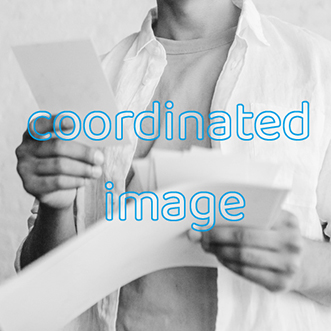
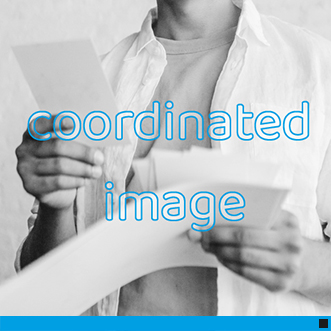
fix service images and footer contact translation

Changed region(s): [[0.0, 0.9366, 1.0, 1.0]]

diff --git a/src/components/Footer.jsx b/src/components/Footer.jsx
@@ -58,7 +58,7 @@ const Footer = () => {
           </span>
         </div>
         <div>
-          contatti:
+          {t('footer.contact')}:
           <a
             href="mailto:creativexpansionart@gmail.com"
             style={{ marginLeft: 5 }}
@@ -68,10 +68,10 @@ const Footer = () => {
         </div>
       </DeepSection>
       <div className="copyright">
-      {t("footer.copyright")} -{" "}
-      <a href="/">
-        creativexpansion.com
-      </a>
+        {t("footer.copyright")} -{" "}
+        <a href="/">
+          creativexpansion.com
+        </a>
       </div>
     </StyledFooter>
   );
